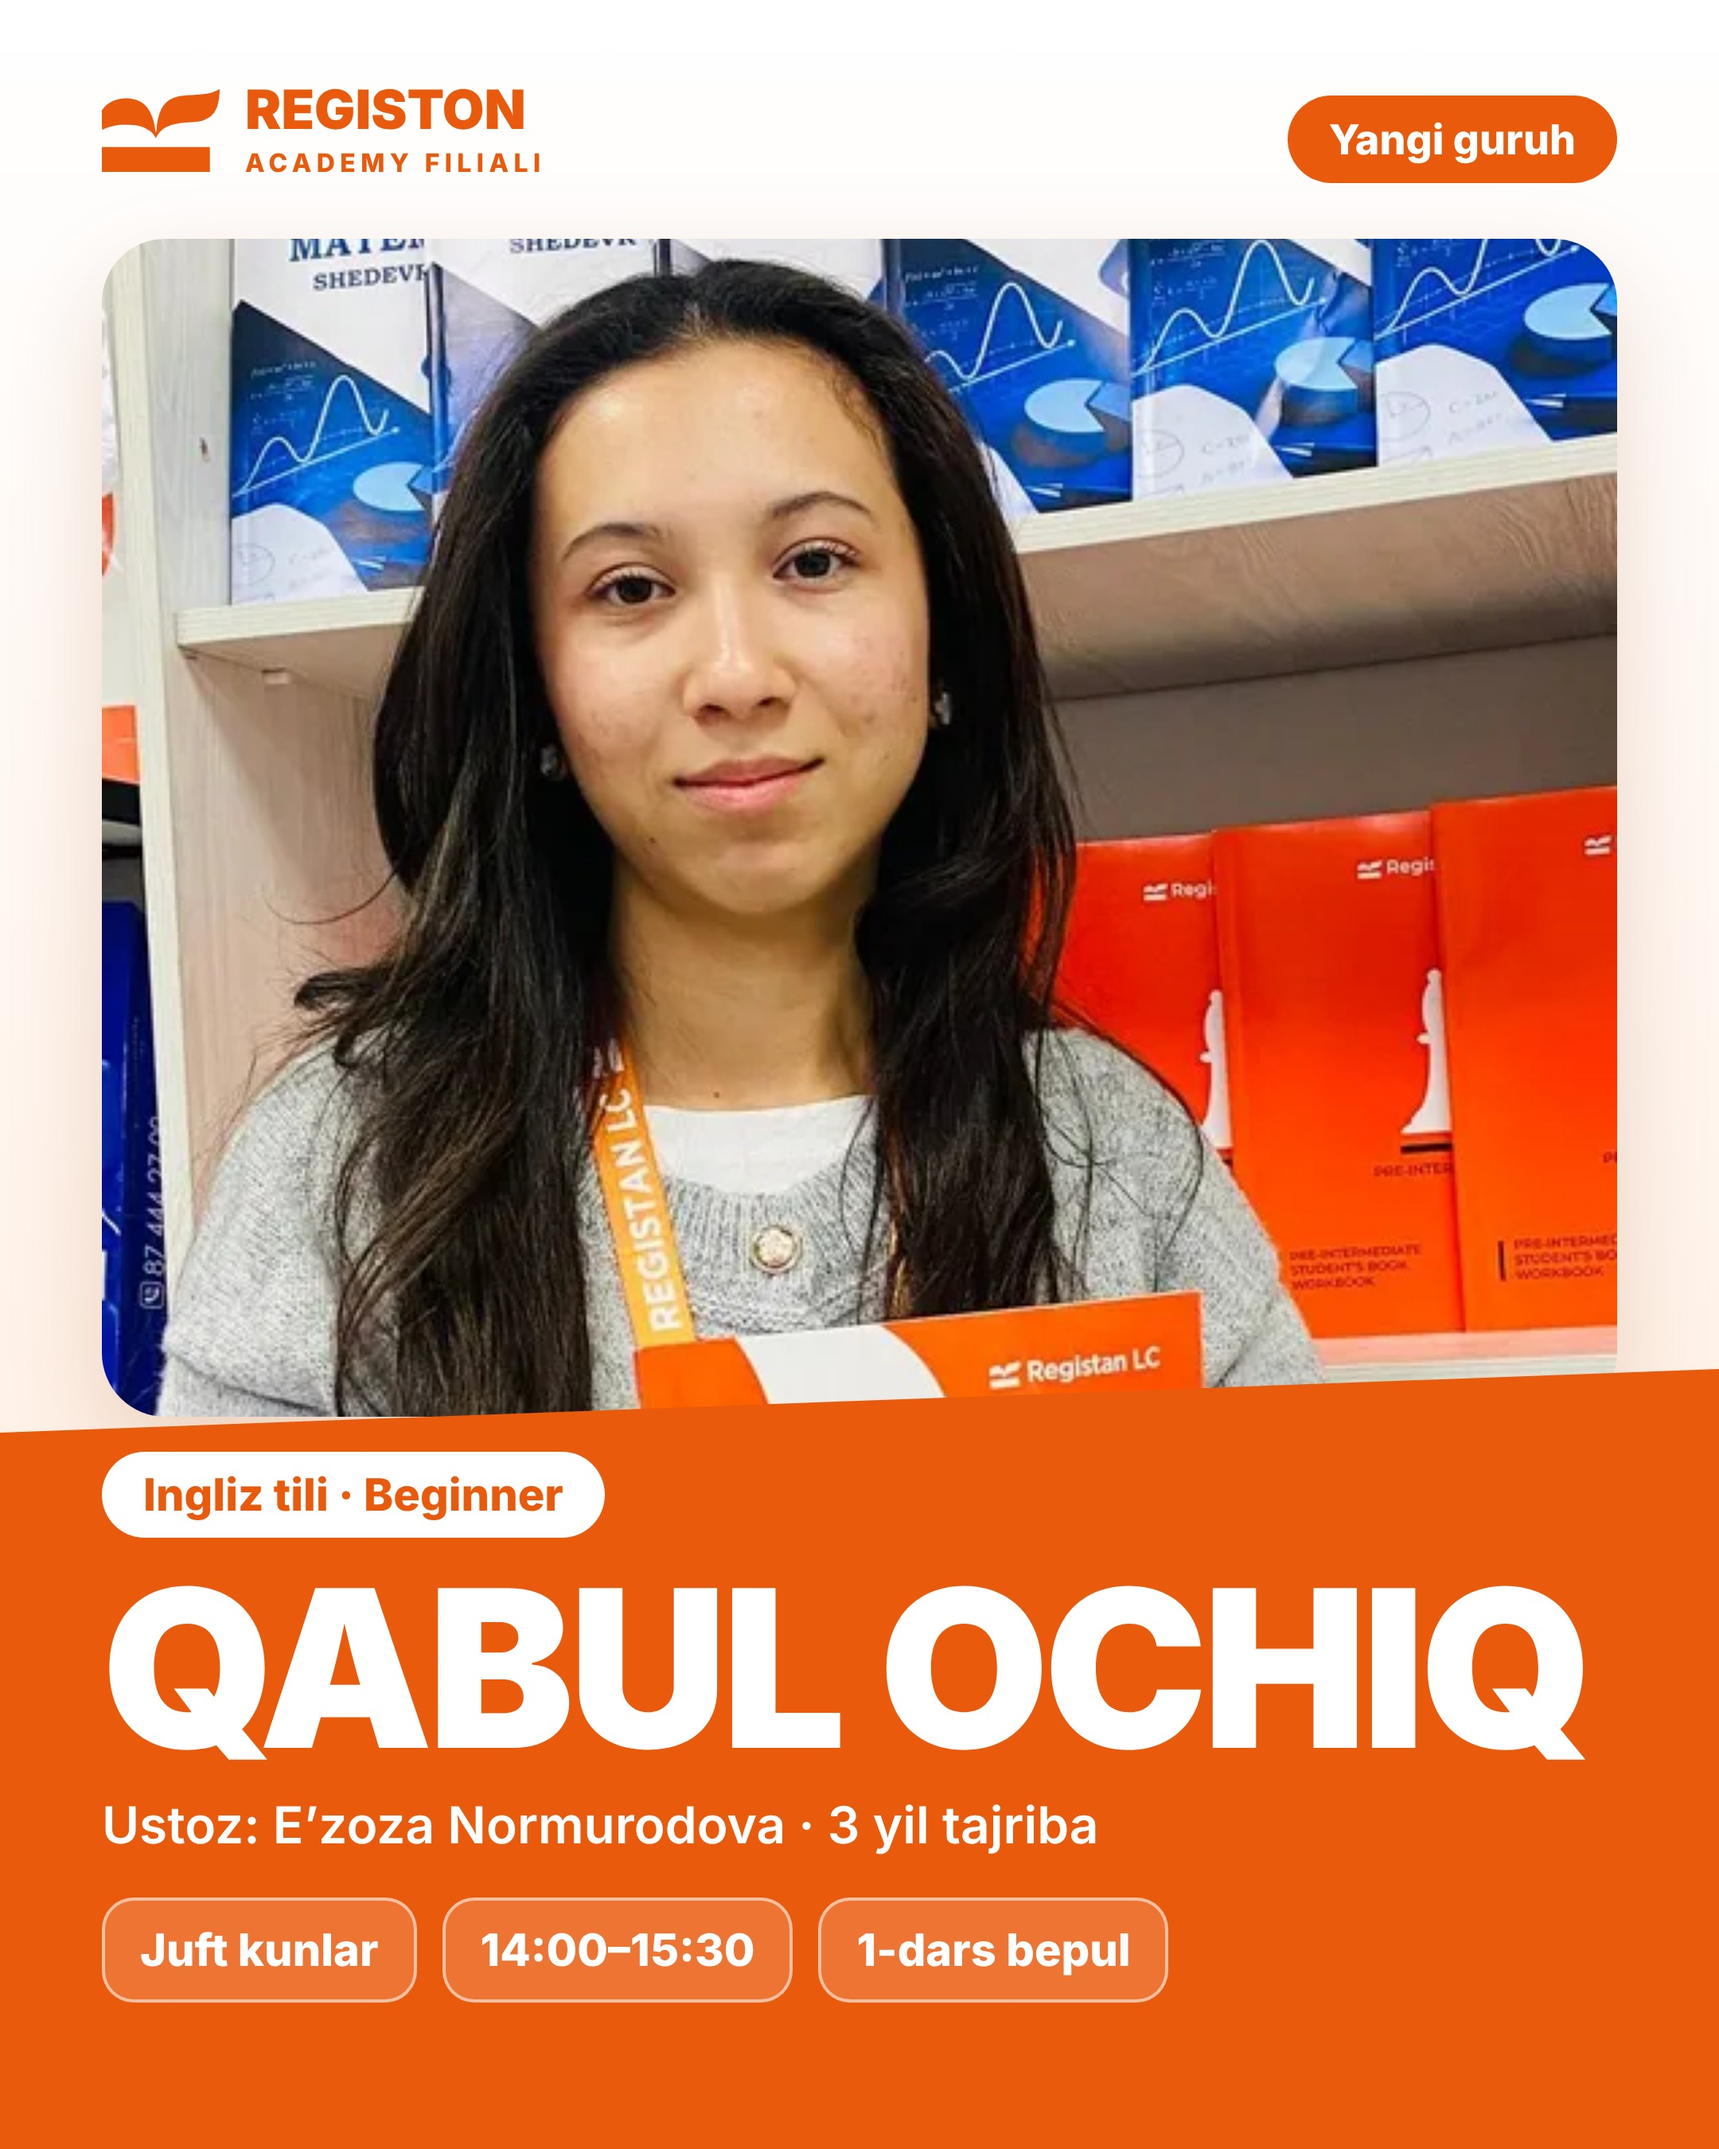
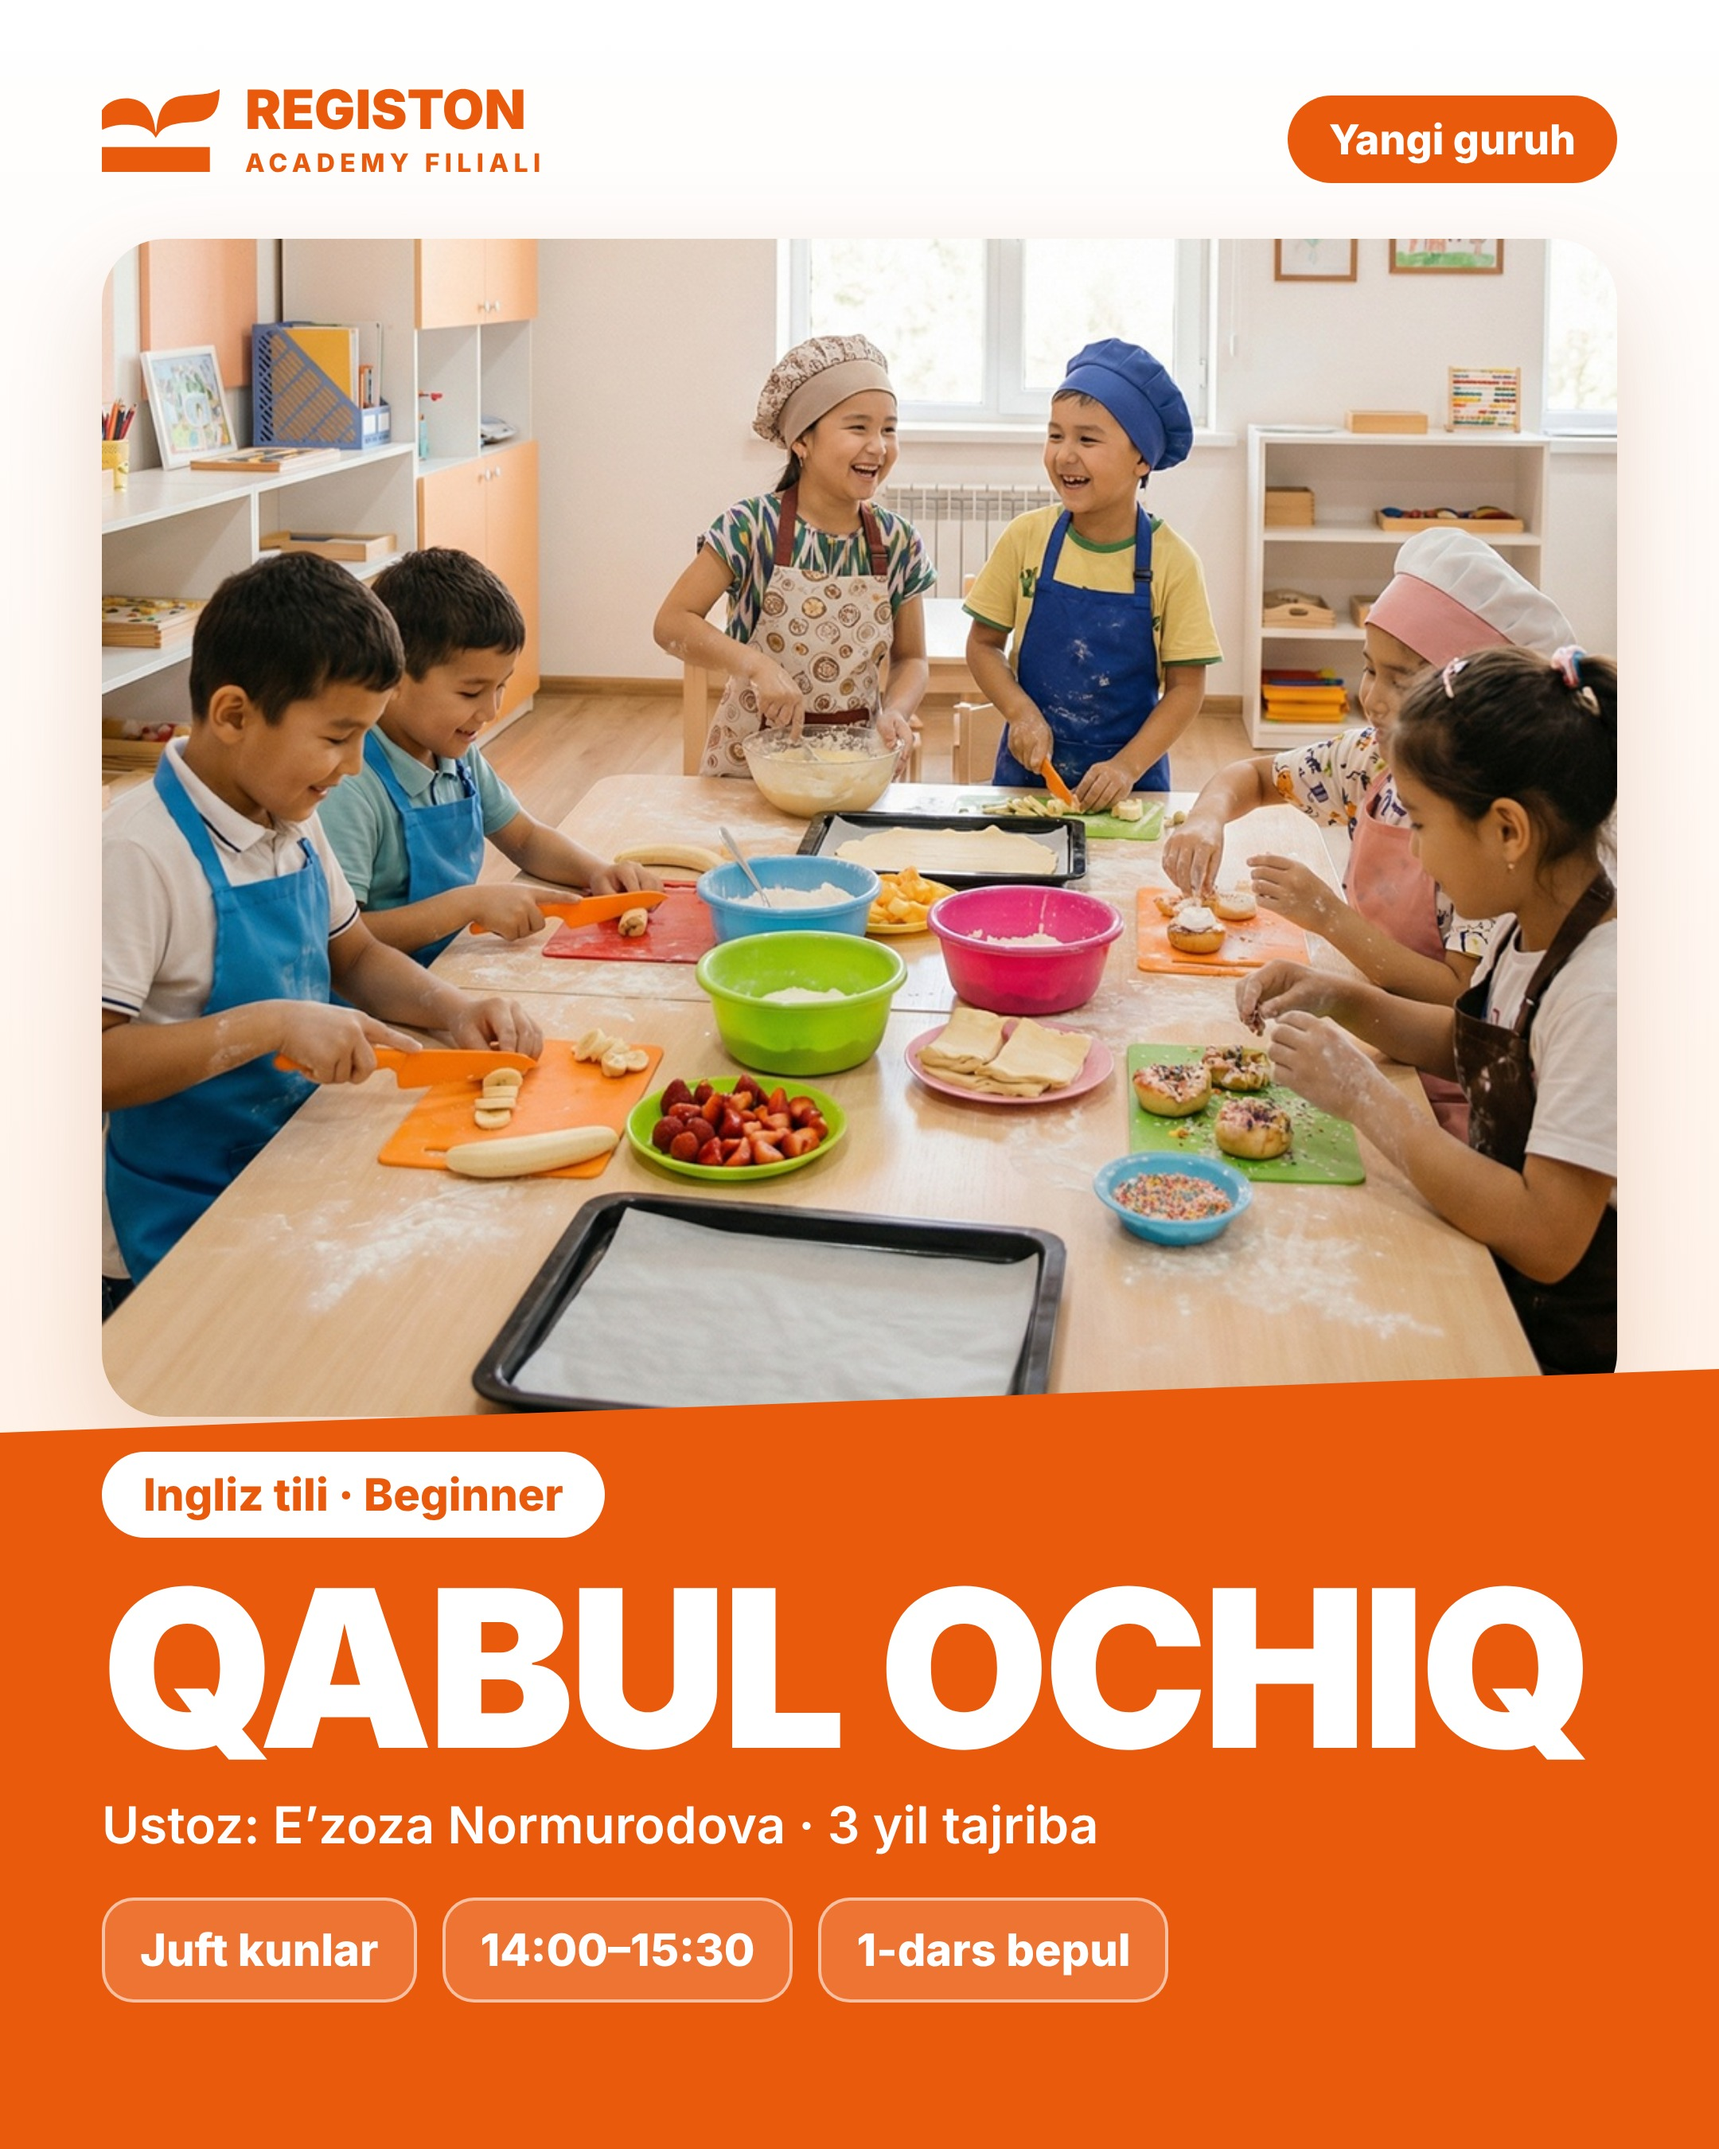
12:00 post: class photo instead of teacher photo; note new test rules
Claude-Session: https://claude.ai/code/session_01HzyoCgFPLDCdYHgsGWFaZG

diff --git a/CLAUDE.md b/CLAUDE.md
@@ -21,6 +21,9 @@ Egasi "post" yoki "kanal yuritish" deganda shu loyihani nazarda tutadi: @Regista
 - 19:30 Test: Du ingliz e'lon, Se ingliz test kuni, Chor ingliz natija+keyingi test; Pay rus e'lon, Ju rus natija+keyingi;
   Sha matematika e'lon, Ya matematika natija+keyingi. Natija va e'lon formati — Farxadskiy namunasi (TOP-3, sertifikat, bepul sinov darsi).
   24-noyabr (Se): istisno — rus tili testi e'loni (birinchi test), natijasi 25-noyabr 19:30.
+- USTOZ SURATLARI HOZIRCHA ISHLATILMAYDI (egasi, 24-noyabr): egasi ustozlarni yangidan suratga tushirib yuboradi; ungacha postlarda
+  umumiy dars/o'quv suratlari. Odinaxon Akromxo'jayeva (rus tili) tajribasi: 3 yil (egasidan).
+- Testlar: 15 ta savol, har biri 2.5 ball (jami 37.5). Test e'lonida mavzular ko'rsatiladi.
 - Post matni: egasining namunasi kabi ixcham ro'yxat mumkin (eski RULES "labelled header yo'q" qoidasidan ustun).
 
 ## Yangi dizayn qoidalari (namuna kanallardan)
